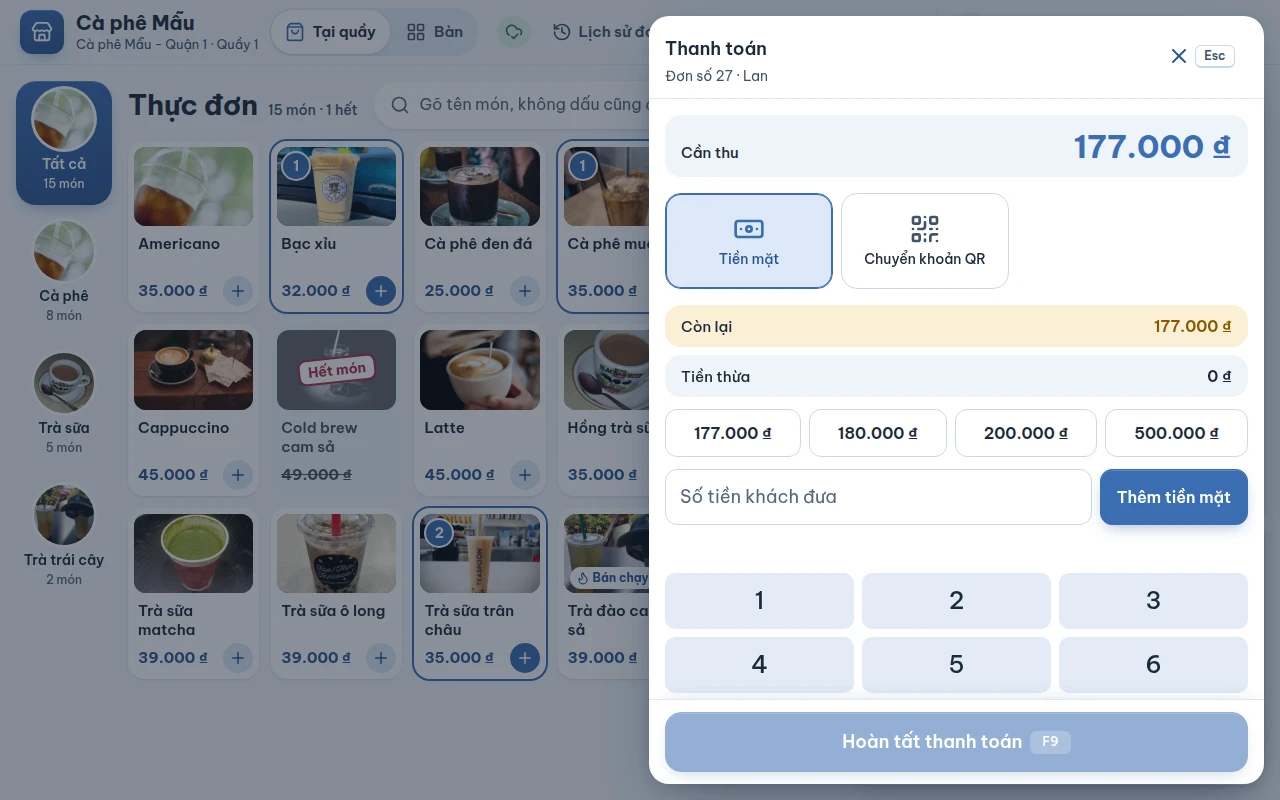
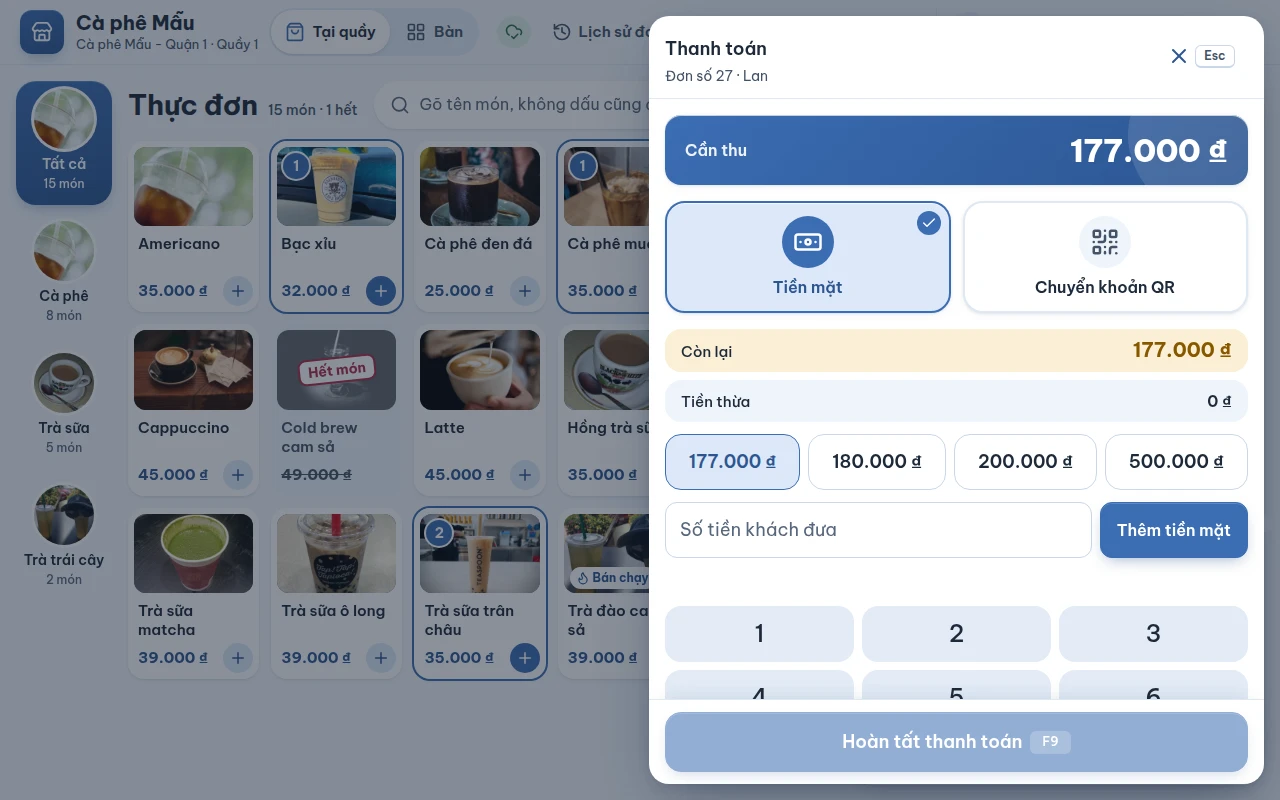
feat(pos): payment drawer with a hero amount and tick-marked cards

Changed region(s): [[0.5, 0.125, 1.0, 0.875], [0.8438, 0.2812, 0.875, 0.3125]]

diff --git a/apps/pos/src/styles/pos-pay-drawer.css b/apps/pos/src/styles/pos-pay-drawer.css
@@ -1,59 +1,124 @@
 /* Inside the payment drawer: the amount due in big type, the two ways to pay as cards, and
    what the chosen way needs under them. */
 
-.pos-due--drawer strong {
-  font-size: var(--fs-4xl);
-  font-weight: var(--fw-bold);
+/* The sum to take is the first thing seen: a brand-coloured block, the number as large as a
+   nine-digit bill allows, with a soft ring of light in the corner. */
+.pos-due--drawer {
+  position: relative;
+  /* The drawer body is a column that scrolls: this block keeps its height, it never squeezes. */
+  flex: none;
+  overflow: hidden;
+  align-items: center;
+  padding: var(--sp-4) var(--sp-5);
+  background: linear-gradient(135deg, var(--c-brand), var(--c-brand-strong));
+  color: var(--c-on-brand);
+  box-shadow: var(--shadow-card);
 }
 
+.pos-due--drawer::before {
+  content: "";
+  position: absolute;
+  top: -60px;
+  right: -40px;
+  width: 160px;
+  height: 160px;
+  border-radius: var(--r-pill);
+  background: rgb(255 255 255 / 0.12);
+  pointer-events: none;
+}
+
+.pos-due--drawer .pos-due__label {
+  position: relative;
+  color: inherit;
+  font-size: var(--fs-md);
+  font-weight: var(--fw-semibold);
+  opacity: 0.92;
+}
+
+.pos-due--drawer strong {
+  position: relative;
+  color: inherit;
+  font-size: var(--fs-4xl);
+  font-weight: var(--fw-heavy);
+  letter-spacing: -0.01em;
+}
+
+/* The two ways to pay, as big cards: one is chosen, and says so with a tick. */
 .pos-pay-ways {
   display: grid;
-  grid-template-columns: repeat(2, minmax(0, 168px));
-  gap: var(--sp-2);
+  grid-template-columns: repeat(auto-fit, minmax(min(100%, 150px), 1fr));
+  gap: var(--sp-3);
 }
 
 .pos-pay-way {
+  position: relative;
   box-sizing: border-box;
   display: flex;
   flex-direction: column;
   align-items: center;
   justify-content: center;
-  gap: var(--sp-1);
+  gap: var(--sp-2);
   min-width: 0;
-  min-height: 96px;
+  min-height: 112px;
   padding: var(--sp-3) var(--sp-2);
-  border: 1px solid var(--c-border);
-  border-radius: var(--r-md);
+  border: 2px solid var(--c-border-soft);
+  border-radius: var(--r-lg);
   background: var(--c-surface);
   color: var(--c-text);
   font: inherit;
-  font-size: var(--fs-sm);
+  font-size: var(--fs-md);
   cursor: pointer;
   touch-action: manipulation;
+  box-shadow: var(--shadow-card);
 }
 
-.pos-pay-way > .pos-icon {
+.pos-pay-way__glyph {
+  display: grid;
+  place-items: center;
+  width: 52px;
+  height: 52px;
+  border-radius: var(--r-pill);
+  background: var(--c-surface-2);
   color: var(--c-text-2);
+  transition:
+    background-color var(--t-state) var(--ease-out),
+    color var(--t-state) var(--ease-out);
 }
 
 .pos-pay-way__label {
   max-width: 100%;
-  font-weight: var(--fw-medium);
-  line-height: 20px;
+  font-weight: var(--fw-semibold);
+  line-height: 22px;
   text-align: center;
   overflow-wrap: anywhere;
 }
 
-/* The chosen way: outlined in brand, the outline drawn twice as thick. */
+.pos-pay-way__tick {
+  position: absolute;
+  top: var(--sp-2);
+  right: var(--sp-2);
+  display: none;
+  place-items: center;
+  width: 24px;
+  height: 24px;
+  border-radius: var(--r-pill);
+  background: var(--c-brand);
+  color: var(--c-on-brand);
+}
+
 .pos-pay-way[aria-pressed="true"] {
   border-color: var(--c-brand);
   background: var(--c-brand-soft);
-  box-shadow: inset 0 0 0 1px var(--c-brand);
   color: var(--c-brand-strong);
 }
 
-.pos-pay-way[aria-pressed="true"] > .pos-icon {
-  color: var(--c-brand);
+.pos-pay-way[aria-pressed="true"] .pos-pay-way__glyph {
+  background: var(--c-brand);
+  color: var(--c-on-brand);
+}
+
+.pos-pay-way[aria-pressed="true"] .pos-pay-way__tick {
+  display: grid;
 }
 
 .pos-pay-way:active:not(:disabled) {

diff --git a/apps/pos/src/styles/pos-keypad.css b/apps/pos/src/styles/pos-keypad.css
@@ -14,12 +14,12 @@
   align-items: center;
   justify-content: center;
   flex: 1 0 auto;
-  min-width: 96px;
+  min-width: 112px;
   max-width: 100%;
-  min-height: var(--tap);
+  min-height: var(--tap-lg);
   padding: var(--sp-2) var(--sp-4);
   border: 1px solid var(--c-border);
-  border-radius: var(--r-sm);
+  border-radius: var(--r-md);
   background: var(--c-surface);
   color: var(--c-text);
   font: inherit;
@@ -38,9 +38,16 @@
   box-shadow: var(--ring);
 }
 
+/* The first key is the exact amount owed: the one most taps are on, so it stands out. */
+.pos-quick-cash__key:first-child {
+  border-color: var(--c-brand);
+  background: var(--c-brand-soft);
+  color: var(--c-brand-strong);
+}
+
 .pos-quick-cash__amount {
   max-width: 100%;
-  font-size: var(--fs-md);
+  font-size: var(--fs-lg);
   font-weight: var(--fw-semibold);
   line-height: 20px;
   font-variant-numeric: tabular-nums;
@@ -58,7 +65,7 @@
   place-items: center;
   min-height: var(--tap-lg);
   border: 0;
-  border-radius: 10px;
+  border-radius: var(--r-md);
   background: var(--c-surface-3);
   color: var(--c-text);
   font: inherit;

diff --git a/apps/pos/src/screens/payment/payment-drawer.test.tsx b/apps/pos/src/screens/payment/payment-drawer.test.tsx
@@ -253,4 +253,19 @@ describe("the payment drawer after a QR came short", () => {
     tap(T.finish);
     expect(paid).toEqual([[short, { method: "cash", amount: 5_000n }]]);
   });
+
+  it("draws the two ways as cards of which exactly one is chosen, and the exact amount is the first quick key", () => {
+    openDrawer(vnd(129_000), { qrAccountSet: true });
+    const cards = [...document.querySelectorAll<HTMLElement>(".pos-pay-way")];
+    expect(cards.map((each) => each.getAttribute("aria-pressed"))).toEqual(["true", "false"]);
+    expect(cards.every((each) => each.querySelector(".pos-pay-way__tick") !== null)).toBe(true);
+    const keys = [...document.querySelectorAll<HTMLElement>(".pos-quick-cash__key")];
+    expect(keys[0]?.textContent).toContain(money(129_000));
+    tap(Q.title);
+    expect([...document.querySelectorAll(".pos-pay-way")].map((each) => each.getAttribute("aria-pressed"))).toEqual([
+      "false",
+      "true",
+    ]);
+    expect(document.querySelector("[data-qr-panel]")).not.toBeNull();
+  });
 });

diff --git a/apps/pos/src/screens/payment/payment-method-cards.tsx b/apps/pos/src/screens/payment/payment-method-cards.tsx
@@ -1,5 +1,5 @@
 import type { WalletKey } from "@fnb/contracts";
-import { Banknote, type LucideIcon, QrCode, Smartphone } from "lucide-react";
+import { Banknote, Check, type LucideIcon, QrCode, Smartphone } from "lucide-react";
 import { vi } from "../../messages/vi";
 import { Icon } from "../shared/icon";
 
@@ -50,8 +50,14 @@ export function PaymentMethodCards({
             if (chosen !== way) onChoose(way);
           }}
         >
-          <Icon of={glyph} size={32} />
+          <span className="pos-pay-way__glyph" aria-hidden="true">
+            <Icon of={glyph} size={30} />
+          </span>
           <span className="pos-pay-way__label">{label}</span>
+          {/* Drawn only on the chosen card: the choice is seen without relying on colour. */}
+          <span className="pos-pay-way__tick" aria-hidden="true">
+            <Icon of={Check} size={16} />
+          </span>
         </button>
       ))}
     </div>

diff --git a/apps/pos/src/styles/pos-payment.css b/apps/pos/src/styles/pos-payment.css
@@ -101,6 +101,8 @@
 
 .pos-balance__row[data-owed="true"] dd {
   color: var(--c-amber);
+  font-size: var(--fs-xl);
+  font-weight: var(--fw-bold);
 }
 
 /* What to hand back, read across the counter once there is some. */

diff --git a/docs/decision-log.md b/docs/decision-log.md
@@ -133,4 +133,5 @@
 | D-127 | 2026-10-29 | **Nhóm màn đăng nhập máy quầy (ghép máy, chọn nhân viên, PIN, sự cố, tab khác) là một thẻ giữa màn hình**: `ScreenFrame` có chế độ `stage` (thẻ rộng 460 px, hoặc 520–880 px cho danh sách nhân viên) đặt giữa màn trên nền nhạt từ chính token thương hiệu (không mã màu cứng), dải hai màu thương hiệu ở mép trên, dấu tròn + tiêu đề trong thẻ; thẻ cao hơn màn thì cuộn trong khung, danh sách nhân viên cuộn riêng trong thẻ (cao tối đa 46% màn, hàng cuối mờ dần) nên tiêu đề, tên chi nhánh và nút quay lại luôn thấy; phím PIN cao theo màn (`clamp(52px, 7.8dvh, 76px)`) để thẻ vừa màn 768 px; mỗi số chạm sáng thêm một chấm, có nút xóa số cuối, PIN sai thì ô rung + viền đỏ + `aria-invalid` (rung tắt cùng giảm chuyển động) | Thẻ dính mép trên, nửa dưới trống ở 1366×768 và 1920×1080; empos và các POS lớn đặt thẻ đăng nhập giữa màn, bàn phím số cỡ ngón tay cái; PIN 4–6 số nên chấm tối đa 6, không báo trước độ dài | Claude quyết (luật 7), đã đọc bố cục đăng nhập của POS tham khảo (chỉ bố cục, không chép) | Claude |
 | D-128 | 2026-10-29 | **Thông báo bản cập nhật là một dải trong khung máy quầy, không phải thẻ nổi**: `TillFrame` (`screens/update/till-frame.tsx`) xếp dải ngang đầu màn hình rồi tới màn, nên dải chiếm chỗ thật và không che lưới món, bàn hay nút thanh toán ở bất kỳ khổ nào; bấm mũi tên **Thu nhỏ** thì dải thành một dòng mỏng "Có bản cập nhật mới · Xem" (vùng chạm kéo ra ngoài dòng để đủ ngón tay), chạm để mở lại; trạng thái thu nhỏ giữ qua các lần máy chủ đổi lý do chờ; mở/đóng qua `usePresence`. Luật cập nhật (`update-policy.ts`) không đổi | Thẻ nổi góc dưới trái đè lưới món lúc ca mở; vuốt tắt không hợp màn cảm ứng có thanh cuộn và dễ tắt nhầm, còn thu nhỏ giữ được tín hiệu "có bản mới"; thanh trạng thái chiếm chỗ kiểu trình duyệt "update available" | Claude quyết (luật 7); chủ dự án nêu lỗi "đè lưới món", cho phép đặt lại chỗ hoặc thu nhỏ | Claude |
 | D-129 | 2026-10-29 | **Mở ca, đóng ca, thu/chi két cùng một ngôn ngữ thẻ với nhóm đăng nhập**: mỗi khối là `ShiftPanel` (thẻ có dải hai màu thương hiệu, dấu tròn, tiêu đề, gợi ý); đóng ca và thu/chi chia **hai thẻ cạnh nhau từ 1100 px** (đếm tiền | sổ tiền mặt cố định khi cuộn; hoặc thu-chi + lý do | số tiền + bàn phím), dưới đó xếp dọc; `ScreenFrame` thêm khổ `split` (1080 px); hàng mệnh giá cao 56 px, sáng lên bằng màu tờ tiền khi đã có tờ; dòng chênh lệch tô theo dấu (thiếu đỏ, thừa hổ phách, khớp xanh); thu/chi chọn nửa trái-phải có biểu tượng, thu xanh, chi đỏ; ô số tiền cỡ lớn. Không đổi nghiệp vụ, số liệu, tên nút, nhãn | Ba màn đếm/ghi tiền két thô và phẳng, số chênh lệch nằm dưới tám hàng mệnh giá nên phải cuộn mới thấy; tờ tiền theo màu để tìm nhanh (đã có) | Claude quyết (luật 7), theo bố cục hai khối của POS tham khảo (chỉ bố cục) | Claude |
+| D-130 | 2026-10-29 | **Ngăn kéo thanh toán vẽ lại, đúng luồng D-073**: số **Cần thu** là một khối màu thương hiệu (chữ trắng trên `--c-brand` → `--c-brand-strong`, chữ `--c-on-brand` nên đủ 4,5:1 ở mọi giao diện) cỡ 2 rem / đậm 800, khối không bị ép thấp dù ngăn cuộn; hai thẻ **Tiền mặt / Chuyển khoản QR** (và ví nếu bật) rộng chia đều, có vòng tròn biểu tượng, viền 2 px + dấu tích ở góc thẻ đang chọn (nhìn ra lựa chọn không dựa vào màu); nút tiền gợi ý cao 56 px, nút đầu (đúng số cần thu) tô nổi; "Còn lại" cỡ lớn khi còn thiếu, tiền thừa vẫn xanh lớn; phím F9, Esc, tiền mặt nhiều lần, QR thiếu / thừa (D-080, D-110) không đổi | Ngăn cũ phẳng, chữ nhỏ ở số tiền; thu ngân bấm bằng ngón tay giữa giờ cao điểm cần thẻ to và số tiền đọc từ xa; cùng ngôn ngữ chiều sâu với nhóm đăng nhập (D-127) | Claude quyết (luật 7); chủ dự án yêu cầu vẽ lại theo D-073 | Claude |
 | D-024 | 2026-10-20 | POS chạy trong trình duyệt (PWA): SQLite WASM opfs-sahpool chỉ cho 1 tab ⇒ khóa 1 tab bằng Web Locks; Safari có thể xóa dữ liệu chưa đồng bộ ⇒ iPad dùng app Capacitor, PWA chỉ cho điện thoại order (online) | — | **chờ user** | spike S2 |
